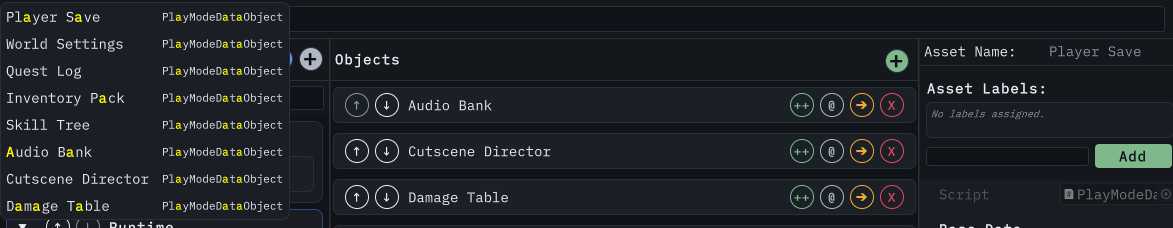
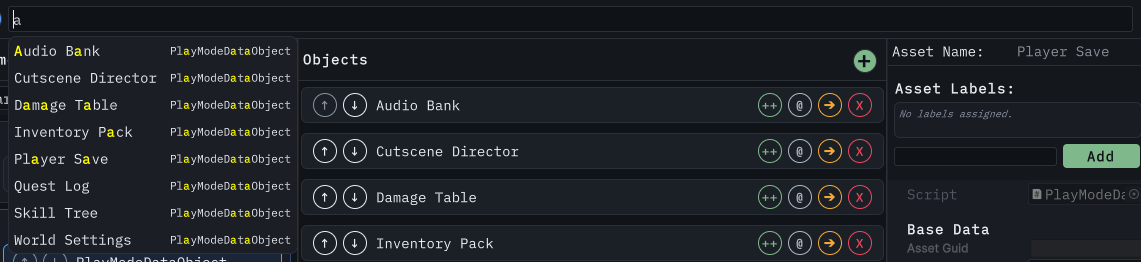
Fix docs search query and result ordering
The capture staged unsorted fixtures and placeholder focus callbacks cleared the visible query. Sort with the production ordinal comparison, preserve the typed query during capture blur, and settle layout before positioning the popover. Add a hosted regression for sorting, change events, and blur. Regenerate both images and document pixel-verified WebP refresh without requiring another open PR.

Validation: fast check and full gate passed. Unity Windows 6000.5 EditMode 362/362 and PlayMode 15/15 passed. The reviewed image shows query a and alphabetical highlighted results. PNG 76376 bytes and WebP 20740 bytes have identical dimensions and decoded RGBA pixels.

Refs #114

diff --git a/Tests/Editor/DocsImageCapture.cs b/Tests/Editor/DocsImageCapture.cs
@@ -275,6 +275,27 @@ namespace WallstopStudios.DataVisualizer.Tests.Editor
             }
         }
 
+        internal static void StageSearchInput(List<ScriptableObject> cache, TextField field, string query)
+        {
+            cache.Sort(
+                static (left, right) =>
+                {
+                    int name = string.Compare(left.name, right.name, StringComparison.Ordinal);
+                    return name != 0 ? name : string.Compare(left.GetType().FullName, right.GetType().FullName, StringComparison.Ordinal);
+                }
+            );
+            /*
+                Offscreen capture moves the tree to another panel, which emits a synthetic
+                blur. Keep the real typed query instead of restoring placeholder text.
+                This callback lives only on the capture window, which the driver closes.
+            */
+            field.RegisterCallback<FocusOutEvent>(SuppressCaptureBlur, TrickleDown.TrickleDown);
+            field.Focus();
+            field.RemoveFromClassList(TextField.ussClassName + "__placeholder");
+            field.value = query;
+            field.Blur();
+        }
+
         internal static string ResolveOutputDirectory(string[] arguments, string environmentValue)
         {
             for (int index = 0; index < arguments.Length - 1; index++)
@@ -943,6 +964,11 @@ namespace WallstopStudios.DataVisualizer.Tests.Editor
             }
         }
 
+        private static void SuppressCaptureBlur(FocusOutEvent change)
+        {
+            change.StopImmediatePropagation();
+        }
+
         /*
             Stages the global search the way a user sees it after typing a query. The
             search cache is injected with the fixture assets and marked populated instead
@@ -987,20 +1013,21 @@ namespace WallstopStudios.DataVisualizer.Tests.Editor
                 throw new InvalidOperationException("The DataVisualizer window exposes no search text field; the capture " + "driver cannot stage the search results.");
             }
 
-            searchField.value = SearchQuery;
+            StageSearchInput(cache, searchField, SearchQuery);
             if (typeof(DataVisualizerWindow).GetField(SearchResultsFieldName, ReflectedInstanceMembers)?.GetValue(window) is not List<VisualElement> results || results.Count == 0)
             {
                 throw new InvalidOperationException($"The staged query '{SearchQuery}' matched no fixture asset; the search shot " + "would document an empty popover.");
             }
 
-            StagePopoverForCapture(window, SearchPopoverFieldName, SearchFieldFieldName);
+            EditorSurfaceCapture.SettleLayout(window);
+            StagePopoverForCapture(window, SearchPopoverFieldName, SearchFieldFieldName, shouldFocus: false);
         }
 
         /*
             Reveals a popover through the extracted production step OpenPopover schedules,
             so the shot shows the same placement and visibility a user gets.
         */
-        private static void StagePopoverForCapture(DataVisualizerWindow window, string popoverFieldName, string triggerFieldName)
+        private static void StagePopoverForCapture(DataVisualizerWindow window, string popoverFieldName, string triggerFieldName, bool shouldFocus = true)
         {
             VisualElement popover = ReadWindowElement(window, popoverFieldName);
             VisualElement trigger = ReadWindowElement(window, triggerFieldName);
@@ -1018,7 +1045,7 @@ namespace WallstopStudios.DataVisualizer.Tests.Editor
                 );
             }
 
-            positionAndDisplay.Invoke(window, new object[] { popover, trigger, false, true });
+            positionAndDisplay.Invoke(window, new object[] { popover, trigger, false, shouldFocus });
         }
 
         private static void InvokeWindowMethod(DataVisualizerWindow window, string methodName, Type[] parameterTypes, object[] arguments)

diff --git a/Tests/Editor/DocsImageCaptureTests.cs b/Tests/Editor/DocsImageCaptureTests.cs
@@ -130,6 +130,43 @@ namespace WallstopStudios.DataVisualizer.Tests.Editor
         }
 
         [Test]
+        public void ShouldStageSortedSearchResultsAndQueryAsTypedInput()
+        {
+            using TestCleanupScope cleanup = new();
+            TestDataObject later = ScriptableObject.CreateInstance<TestDataObject>();
+            cleanup.Defer(() => Object.DestroyImmediate(later));
+            later.name = "Zulu";
+            TestDataObject editor = ScriptableObject.CreateInstance<TestDataObject>();
+            cleanup.Defer(() => Object.DestroyImmediate(editor));
+            editor.name = "Alpha";
+            WallstopStudios.DataVisualizer.Tests.Runtime.PlayModeDataObject runtime =
+                ScriptableObject.CreateInstance<WallstopStudios.DataVisualizer.Tests.Runtime.PlayModeDataObject>();
+            cleanup.Defer(() => Object.DestroyImmediate(runtime));
+            runtime.name = "Alpha";
+            List<ScriptableObject> cache = new() { later, runtime, editor };
+            EditorSurfaceCaptureHostWindow window = ScriptableObject.CreateInstance<EditorSurfaceCaptureHostWindow>();
+            cleanup.Defer(() => EditorSurfaceCapture.CloseWindow(window));
+            window.position = new Rect(0f, 0f, 400f, 120f);
+            EditorSurfaceCapture.ShowPopup(window);
+            TextField field = new() { value = "Search..." };
+            window.rootVisualElement.Add(field);
+            EditorSurfaceCapture.SettleLayout(window);
+            field.AddToClassList(TextField.ussClassName + "__placeholder");
+            string observed = null;
+            field.RegisterValueChangedCallback(change => observed = change.newValue);
+            field.RegisterCallback<FocusOutEvent>(_ => field.SetValueWithoutNotify("Search..."));
+
+            DocsImageCapture.StageSearchInput(cache, field, "a");
+
+            CollectionAssert.AreEqual(new ScriptableObject[] { editor, runtime, later }, cache);
+            Assert.That(field.ClassListContains(TextField.ussClassName + "__placeholder"), Is.False);
+            Assert.AreEqual("a", field.value);
+            Assert.AreEqual("a", observed, "The production change callback must receive the staged query.");
+            field.Blur();
+            Assert.AreEqual("a", field.value, "Moving the capture tree to another panel must not restore placeholder text.");
+        }
+
+        [Test]
         public void ShouldExposeManifestShotNames()
         {
             Assert.That(

diff --git a/docs/search-and-filter.md b/docs/search-and-filter.md
@@ -100,3 +100,25 @@ Label editing is package-driven asset editing, so it is refused during the Play 
 - [Managing assets](managing-assets.md) — create, rename, move, clone, delete, and run processors.
 - [Organizing your data](organizing.md) — ordering, layout, and persistence.
 - [Extending the window](extending.md) — attributes, `BaseDataObject`, processors, and custom inspector content.
+
+### Refresh the published search image
+
+After reviewing a regenerated `docs/images/data-visualizer-search.png`, refresh its WebP companion from the repository root. This verifies every decoded pixel before writing:
+
+```bash
+uv run --with Pillow==12.3.0 python - <<'PY'
+from io import BytesIO
+from pathlib import Path
+from PIL import Image
+source = Path("docs/images/data-visualizer-search.png")
+with Image.open(source) as image:
+    pixels = image.convert("RGBA")
+    encoded = BytesIO()
+    pixels.save(encoded, format="WEBP", lossless=True, exact=True, quality=100, method=6)
+    with Image.open(BytesIO(encoded.getvalue())) as decoded:
+        assert decoded.size == pixels.size
+        assert decoded.convert("RGBA").tobytes() == pixels.tobytes()
+    assert len(encoded.getvalue()) < source.stat().st_size
+    source.with_suffix(".webp").write_bytes(encoded.getvalue())
+PY
+```
